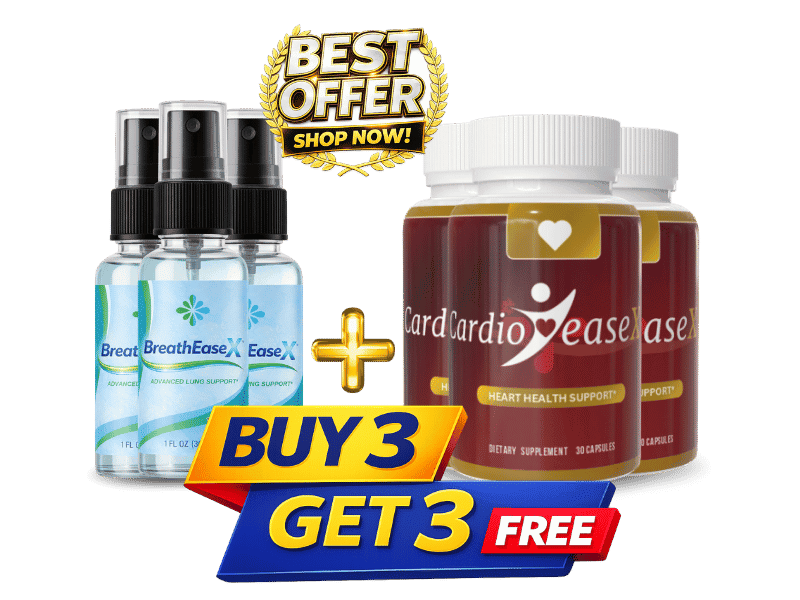
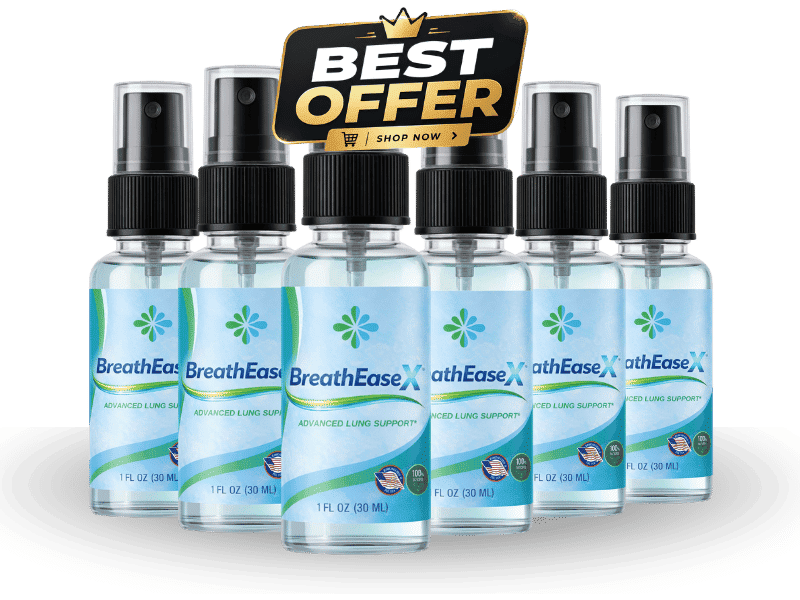
fix(breatheasex): atualizar fotos oficiais hero e kit extraidas da TSL atual

diff --git a/reviews/breatheasex/index.html b/reviews/breatheasex/index.html
@@ -132,7 +132,7 @@
 
 <div class="hero-image">
   <a href="https://breatheasex.com/dtc-single/?aff_id=96766" target="_blank" rel="noopener">
-    <img src="../../assets/images/breatheasex/hero.png" alt="BreathEaseX supplement bottle" loading="eager" width="800" height="600">
+    <img src="../../assets/images/breatheasex/hero.png?v=20261009-tsl" alt="BreathEaseX supplement bottle" loading="eager" width="618" height="800">
   </a>
 </div>
 
@@ -267,7 +267,7 @@
             <p>Because the supplement uses natural, well‑studied nutrients and is produced in a FDA‑registered, cGMP‑certified facility, the risk is low and the potential benefit is real. It offers a sensible, low‑cost approach for anyone looking to restore breathing comfort and cardiovascular vigor.</p>
             <figure class="inline-figure">
               <a href="https://breatheasex.com/dtc-single/?aff_id=96766" target="_blank" rel="noopener">
-                <img src="../../assets/images/breatheasex/kit.png" alt="BreathEaseX kit" loading="lazy" width="600" height="450">
+                <img src="../../assets/images/breatheasex/kit.png?v=20261009-tsl" alt="BreathEaseX kit" loading="lazy" width="800" height="600">
               </a>
             </figure>
             <p style="text-align: center; color: #ff0000;"><em><strong>For the safest purchase and current promotional bundle pricing, use the official BreathEaseX website.</strong></em></p>
